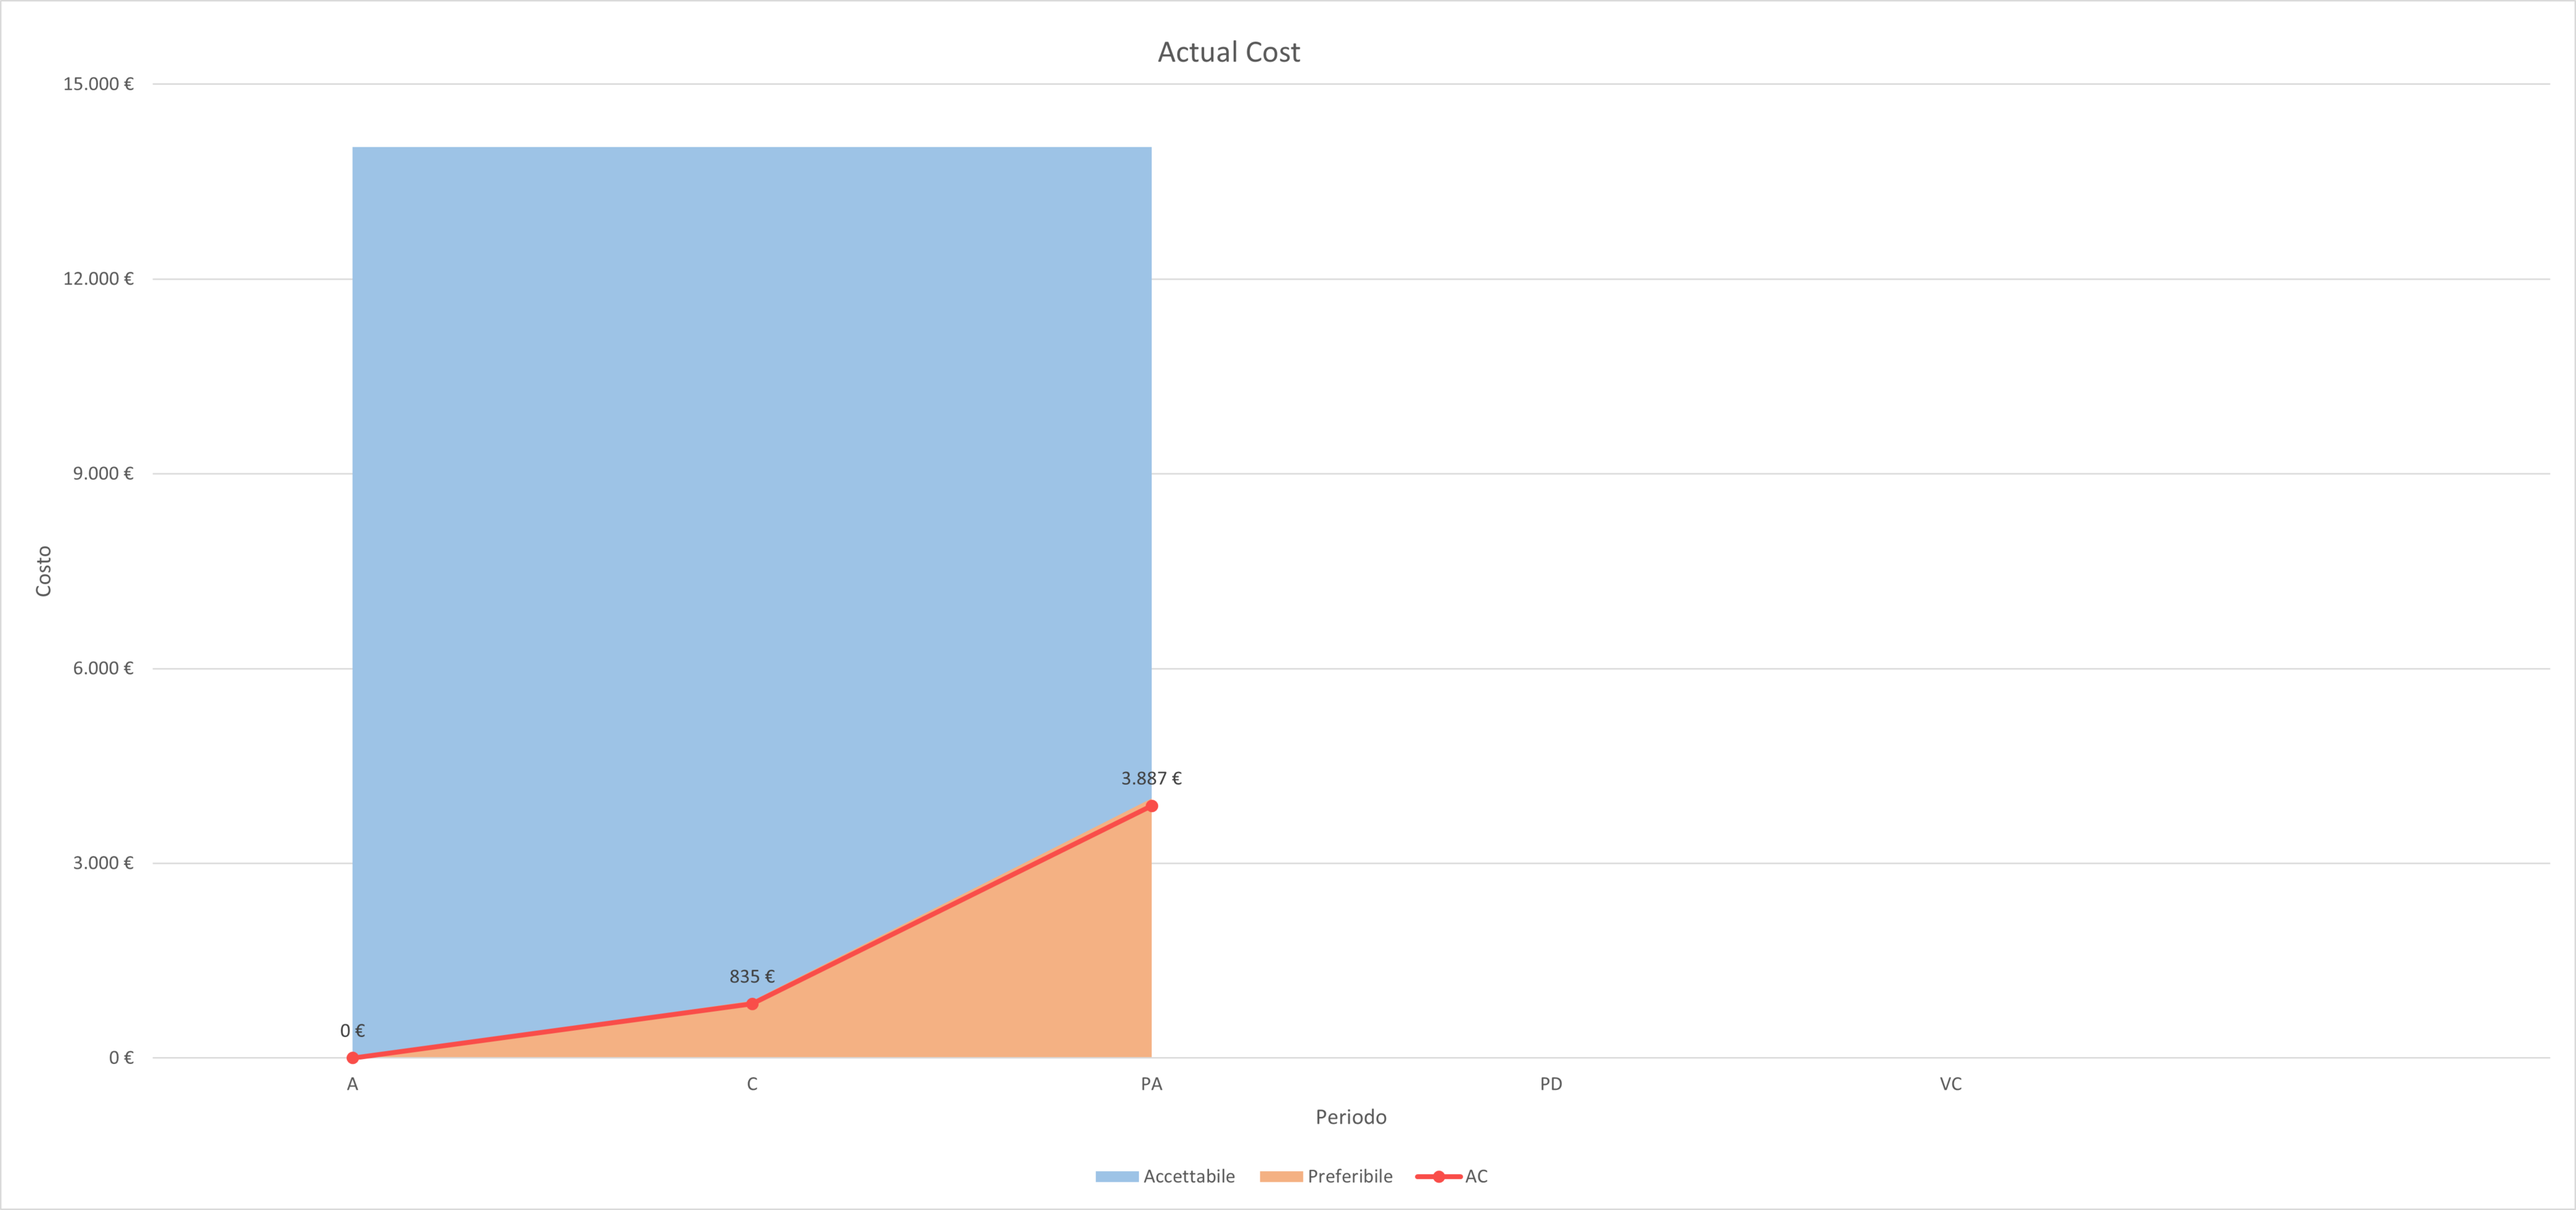
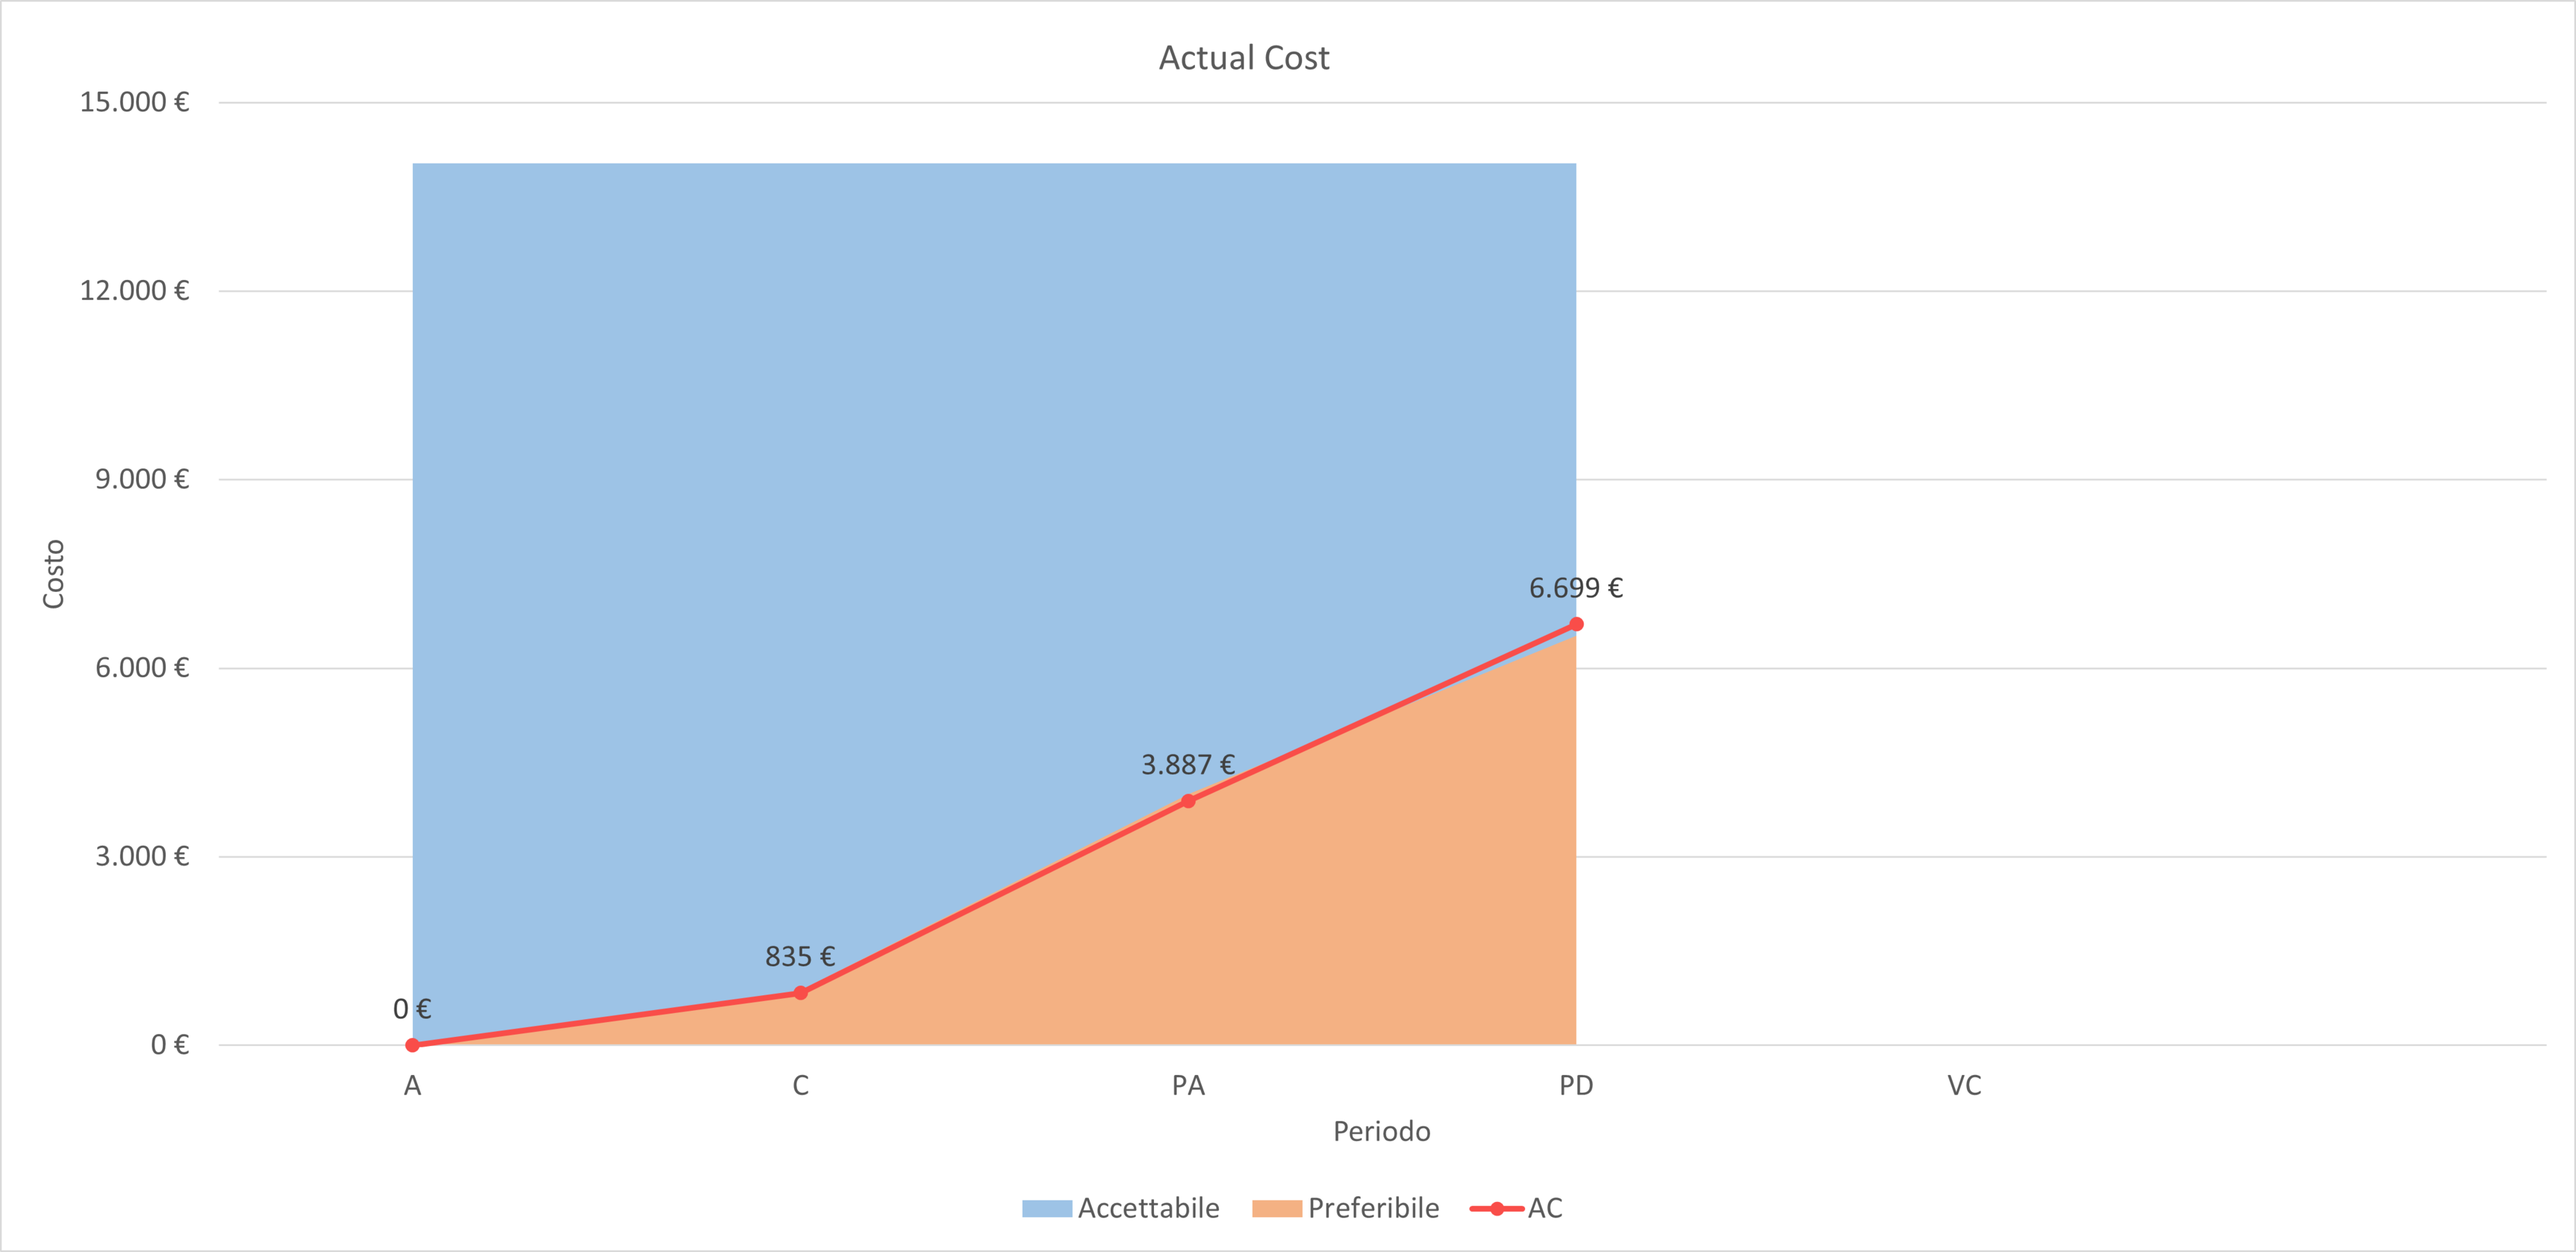
add metriche pianificazione e correttezza ortografica

diff --git a/RQ/Documenti Esterni/Piano di Qualifica/sezioni/resocontoAttivitàVerifica.tex b/RQ/Documenti Esterni/Piano di Qualifica/sezioni/resocontoAttivitàVerifica.tex
@@ -65,6 +65,13 @@ I dati riportati nel seguito fanno riferimento a:
     \includegraphics[scale=0.5]{sezioni/immagini/ActualCost.png}
     \centering
 \end{figure}
+\subsubsection{MPR07 - SV (Schedule Variance)}
+\begin{figure}[!ht]
+    \caption{Schedule Variance}
+    \vspace{10px}
+    \includegraphics[scale=0.5]{sezioni/immagini/ScheduleVariance.png}
+    \centering
+\end{figure}
 \subsubsection{MPR08 - BV (Budget Variance)}
 \begin{figure}[!ht]
     \caption{Budget Variance}
@@ -83,17 +90,20 @@ I dati riportati nel seguito fanno riferimento a:
     \begin{longtable}[!h]{p{100px} p{50px} p{50px} p{50px} p{50px} p{50px} p{50px}}
         \caption{Esiti verifica con Gulpease}                                                                                        \\
         \rowcolor{logo!70}   \textbf{Documento} & \textbf{A} & \textbf{C} & \textbf{PA} & \textbf{PD} & \textbf{VC} & \textbf{Esito} \\
-        \textit{Norme di Progetto}              & 68         & 68         & 72          &             &             & Superato       \\
-        \textit{Piano di Progetto}              & 73         & 73         & 69          &             &             & Superato       \\
-        \textit{Analisi dei Requisiti}          & 71         & 71         & 68          &             &             & Superato       \\
+        \textit{Norme di Progetto}              & 68         & 68         & 72          & 69          &             & Superato       \\
+        \textit{Piano di Progetto}              & 73         & 73         & 69          & 73          &             & Superato       \\
+        \textit{Analisi dei Requisiti}          & 71         & 71         & 68          & 68          &             & Superato       \\
         \textit{Piano di Qualifica}             & 69         & 69         & 69          &             &             & Superato       \\
-        \textit{Studio di Fattibilità}          & 74         & 74         & /           &             &             & Superato       \\
+        \textit{Studio di Fattibilità}          & 74         & 74         & /           & /           &             & Superato       \\
+        \textit{Maintainer Manual}              & /          & /          & /           & 70          &             & Superato       \\
+        \textit{User Manual}                    & /          & /          & /           &             &             & Superato       \\
         \textit{Glossario}                      & 49         & 49         & 49          &             &             & Superato       \\
-        \textit{Verbali interni (media)}        & 67         & 67         & 56          &             &             & Superato       \\
-        \textit{Verbali esterni (media)}        & 71         & 71         & 60          &             &             & Superato       \\
+        \textit{Verbali interni (media)}        & 67         & 67         & 56          & 59          &             & Superato       \\
+        \textit{Verbali esterni (media)}        & 71         & 71         & 60          & 57          &             & Superato       \\
         \rowcolor{white}
     \end{longtable}
 \end{center}
+\pagebreak
 \subsubsubsection{Andamento per documento}
 \begin{figure}[!ht]
     \caption{Indice di Gulpease: \textit{Norme di Progetto}}
